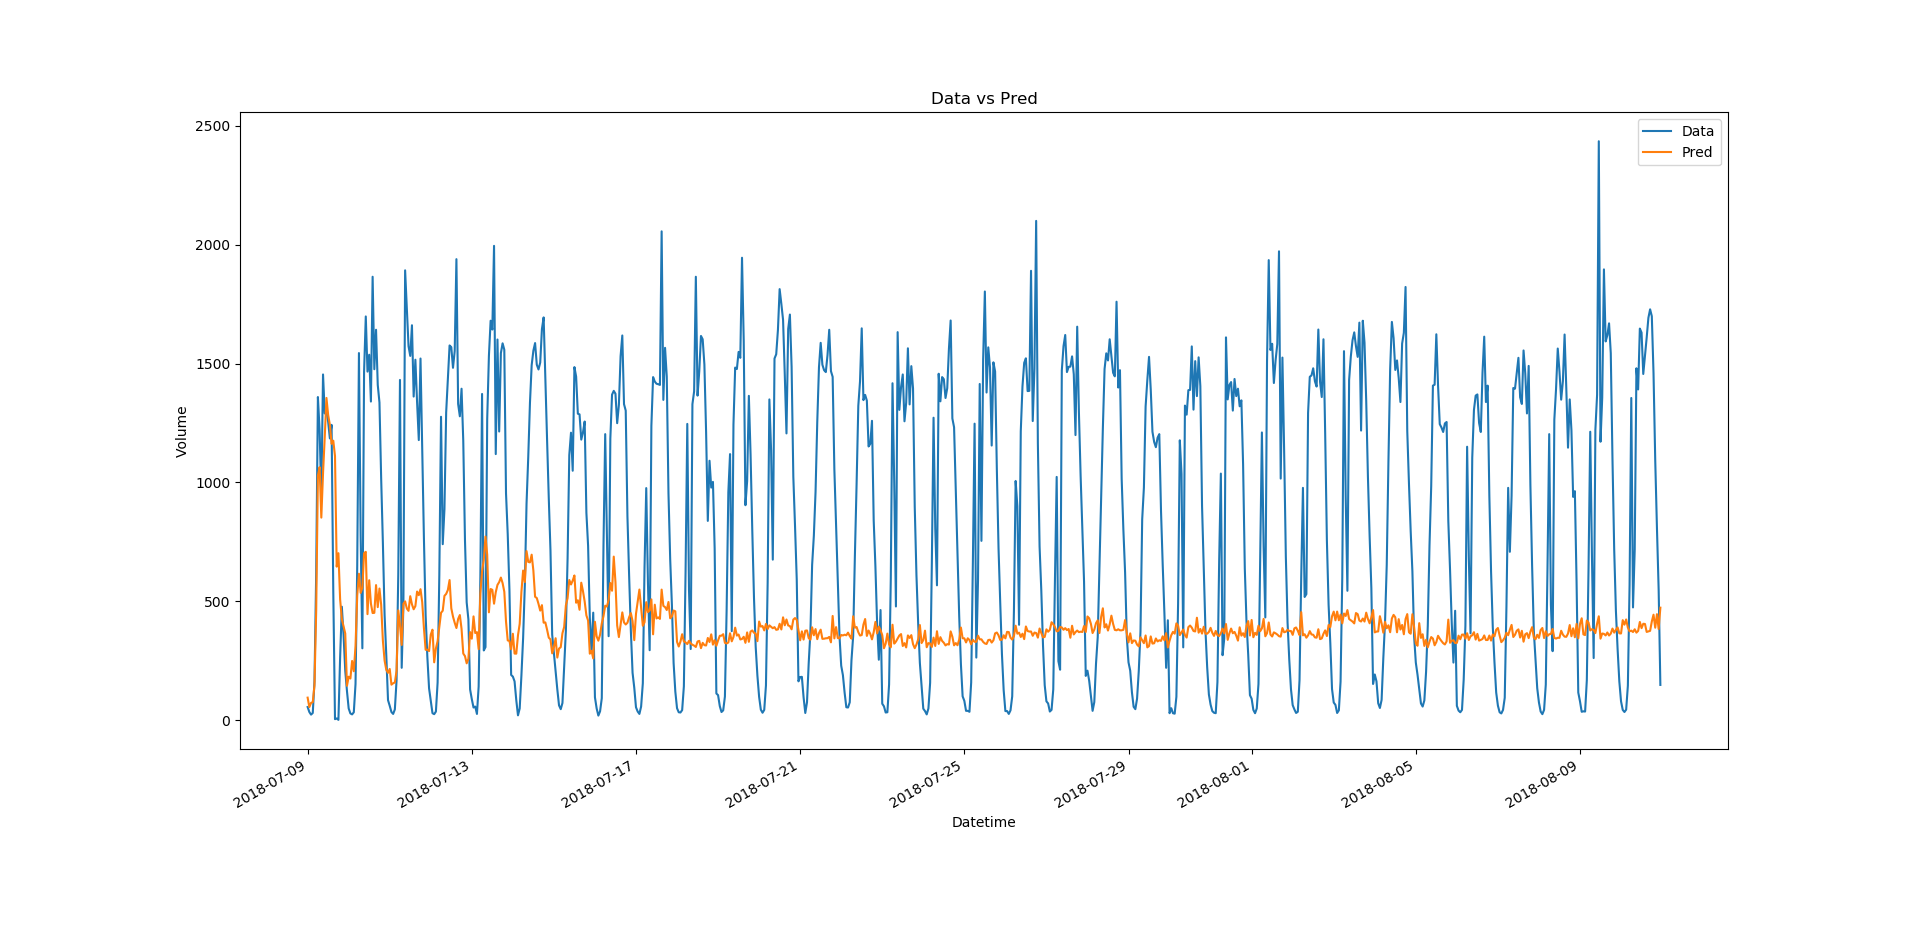
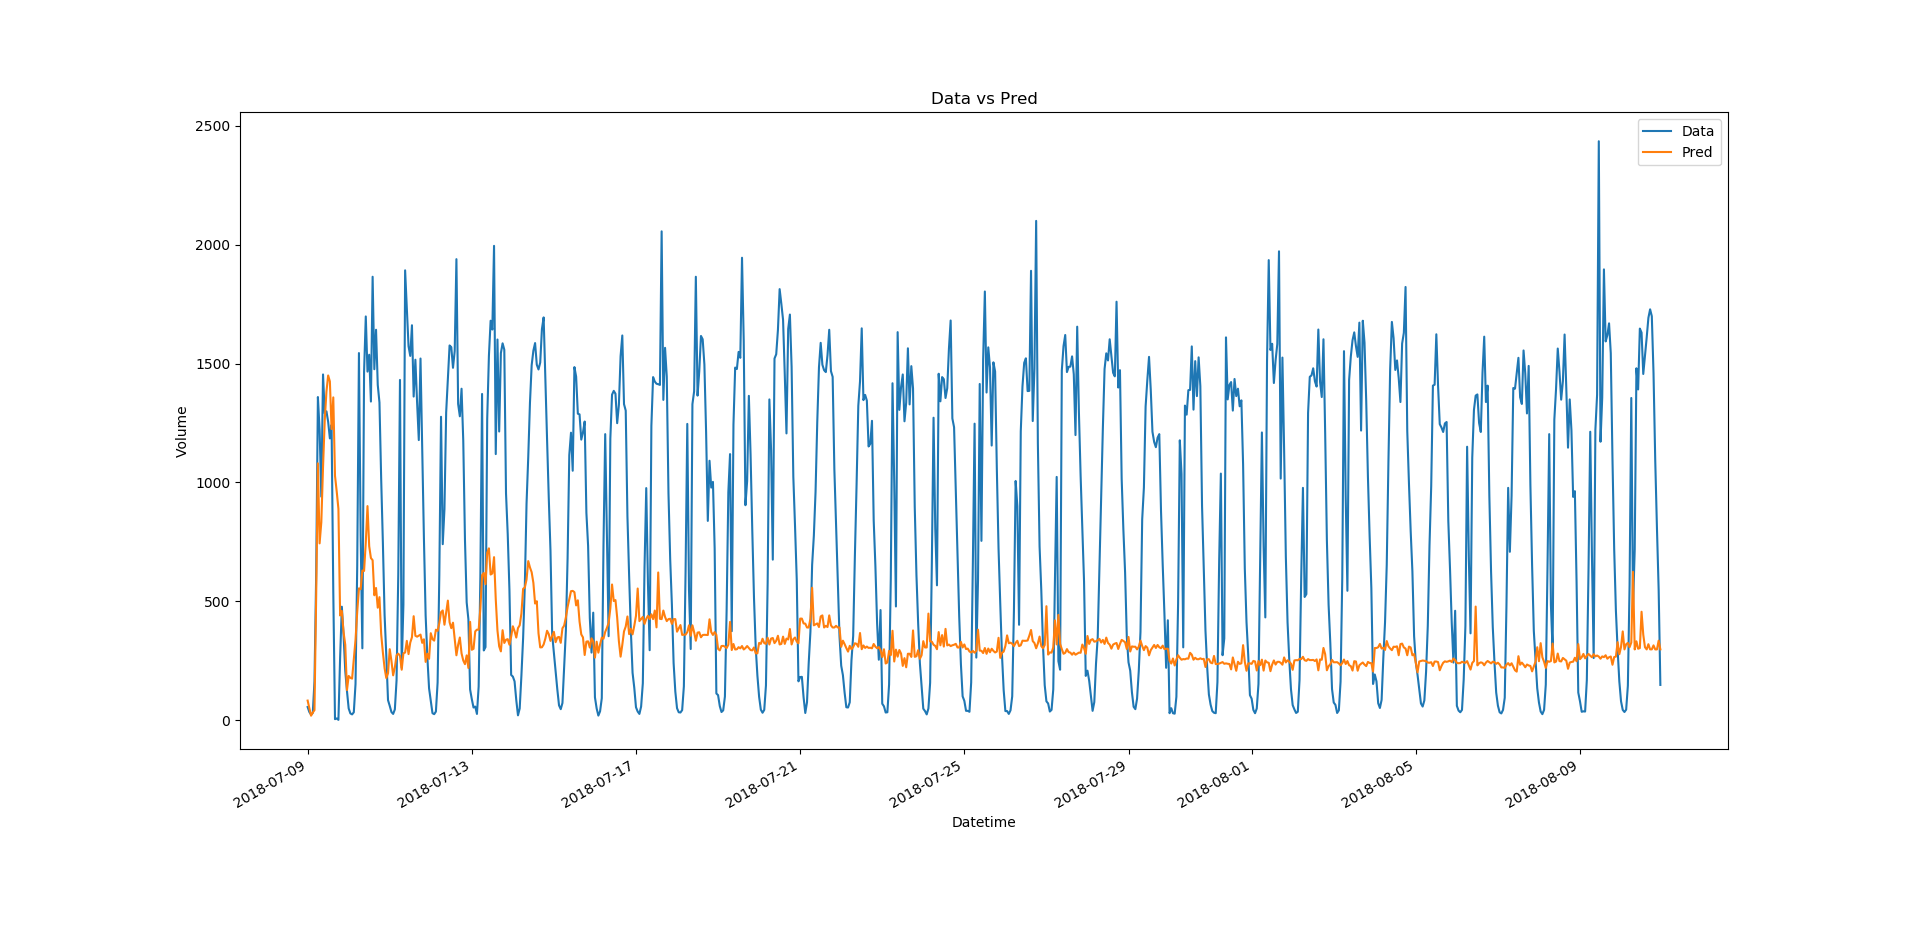
CNN + Update

Changed region(s): [[0.1562, 0.4028, 0.875, 0.7436]]

diff --git a/main.py b/main.py
@@ -47,27 +47,27 @@ nom_model = input("Choisir le modèle à traiter parmis : {}\n".format(model_dis
 if nom_model == 'LSTM':
     model = LSTM.LSTM_NN(longueur_serie=longueur_serie)
     print(model)
-    error = nn.L1Loss()
+    error = nn.MSELoss()
     learning_rate = 0.001
     weight_decay = 0.0001
-    lr_dim = 2
     num_epoch = 1
-    optimizer = torch.optim.Adam(model.parameters(), lr=learning_rate, weight_decay=weight_decay)
+    optimizer = torch.optim.AdamW(model.parameters(), lr=learning_rate, weight_decay=weight_decay)
+    scheduler = torch.optim.lr_scheduler.StepLR(optimizer, 1.0, gamma=0.50)
 elif nom_model == 'CNN':
     model = CNN.CNN(S=longueur_serie).double()
     print(model)
-    error = nn.L1Loss()
+    error = nn.MSELoss()
     learning_rate = 0.001
     weight_decay = 0.0001
-    lr_dim = 3
     num_epoch = 3
-    optimizer = torch.optim.Adam(model.parameters(), lr=learning_rate, weight_decay=weight_decay)
+    optimizer = torch.optim.AdamW(model.parameters(), lr=learning_rate, weight_decay=weight_decay)
+    scheduler = torch.optim.lr_scheduler.StepLR(optimizer, 1.0, gamma=0.50)
 else:
     print("Erreur dans le choix du modèle")
 
 # %% Training and Testing
 
-model, pourcentage_loss_list, test_loss_list = model_training.main(nom_model, model, error, data_loader_train, data_loader_test, n_train, learning_rate, lr_dim, weight_decay, num_epoch, batch_size)
+model, pourcentage_loss_list, test_loss_list = model_training.main(nom_model, model, error, data_loader_train, data_loader_test, n_train, optimizer, scheduler, num_epoch, batch_size)
 
 # %% Validation
 

diff --git a/model_training.py b/model_training.py
@@ -10,7 +10,7 @@ import numpy as np
 import torch
 
 
-def main(nom_model, model, error, data_loader_train, data_loader_test, n_train, learning_rate, lr_dim, weight_decay, num_epoch, batch_size):
+def main(nom_model, model, error, data_loader_train, data_loader_test, n_train, optimizer, scheduler, num_epoch, batch_size):
     """
     
     Entrainement du modèle et Loss Test
@@ -55,8 +55,6 @@ def main(nom_model, model, error, data_loader_train, data_loader_test, n_train, 
 
     count, pourcentage = 0, 0.
     for epoch in range(num_epoch):
-        learning_rate /= lr_dim
-        optimizer = torch.optim.Adam(model.parameters(), lr=learning_rate, weight_decay=weight_decay)
         for (latitude, longitude, month, day_week, direction, serie_J, serie_J_moins_1, serie_J_moins_7), target in data_loader_train:
 
             output = model.forward(latitude, longitude, month, day_week, direction, serie_J, serie_J_moins_1, serie_J_moins_7)
@@ -83,10 +81,11 @@ def main(nom_model, model, error, data_loader_train, data_loader_test, n_train, 
                 pourcentage_loss_list.append(int(round(100*pourcentage)))
                 test_loss_list.append(test_loss)
                 pourcentage += 0.1
-
+        scheduler.step()
+    plt.figure(0)
     plt.plot(pourcentage_loss_list, test_loss_list)
     plt.xlabel("Pourcentage * Epochs")
-    plt.ylabel("MAE Loss")
+    plt.ylabel("MSE Loss")
     plt.title("{}: Test Loss vs Pourcentage Epochs".format(nom_model))
     plt.show()
 

diff --git a/data_postprocessing.py b/data_postprocessing.py
@@ -232,7 +232,7 @@ def plot(data_post, output, data_post_date, data_post_hour):
     data_post_pd['pred'] = output
     localisation = data_post_pd[['latitude','longitude']].drop_duplicates().to_numpy()
     for loc in range(len(localisation)):
-        plt.figure(loc+1)
+        plt.figure(loc + 2)
         data_post_pd[(data_post_pd['latitude'] == localisation[loc, 0]) & (data_post_pd['longitude'] == localisation[loc, 1])]['to_pred'].plot(label='Data')
         data_post_pd[(data_post_pd['latitude'] == localisation[loc, 0]) & (data_post_pd['longitude'] == localisation[loc, 1])]['pred'].plot(label='Pred')
         plt.ylabel("Volume")

diff --git a/data_forecast.py b/data_forecast.py
@@ -201,7 +201,7 @@ def plot(data_for, output, data_for_date, data_for_hour):
     data_for_pd['Datetime'] = data_for_datetime
     data_for_pd.index = data_for_pd['Datetime']
     data_for_pd['pred'] = output
-    plt.figure(0)
+    plt.figure(1)
     data_for_pd['to_pred'].plot(label='Data')
     data_for_pd['pred'].plot(label='Pred')
     plt.ylabel("Volume")

diff --git a/report.md b/report.md
@@ -56,7 +56,7 @@ Ensuite, on aura une couche fully connected avec comme paramètres la sortie de 
 
 
 
-Le modèle est très performant pour prédire à 1 étape, cependant il réagit mal à la prédiction sur plusieurs étapes. En effet, il va rester plus ou moins fidèle aux variations sur les 7 premiers jours (ce qui est normal car en entrée on aura besoin des données des 7 derniers jours) mais deviendra très rapidement linéaire.
+Le modèle est très performant pour prédire à 1 étape, cependant il réagit mal à la prédiction sur plusieurs étapes. En effet, il va rester plus ou moins fidèle aux variations sur les 7 premiers jours (ce qui est normal car en entrée on aura besoin des données des 7 derniers jours) mais deviendra très rapidement linéaire. D'autres modèles de CNN plus simple ou plus complexe, vont globalement aboutir au même résultat mais les plus simples réaliseront la prédiction à plusieurs étapes avec plus de difficulté.
 
 
 
